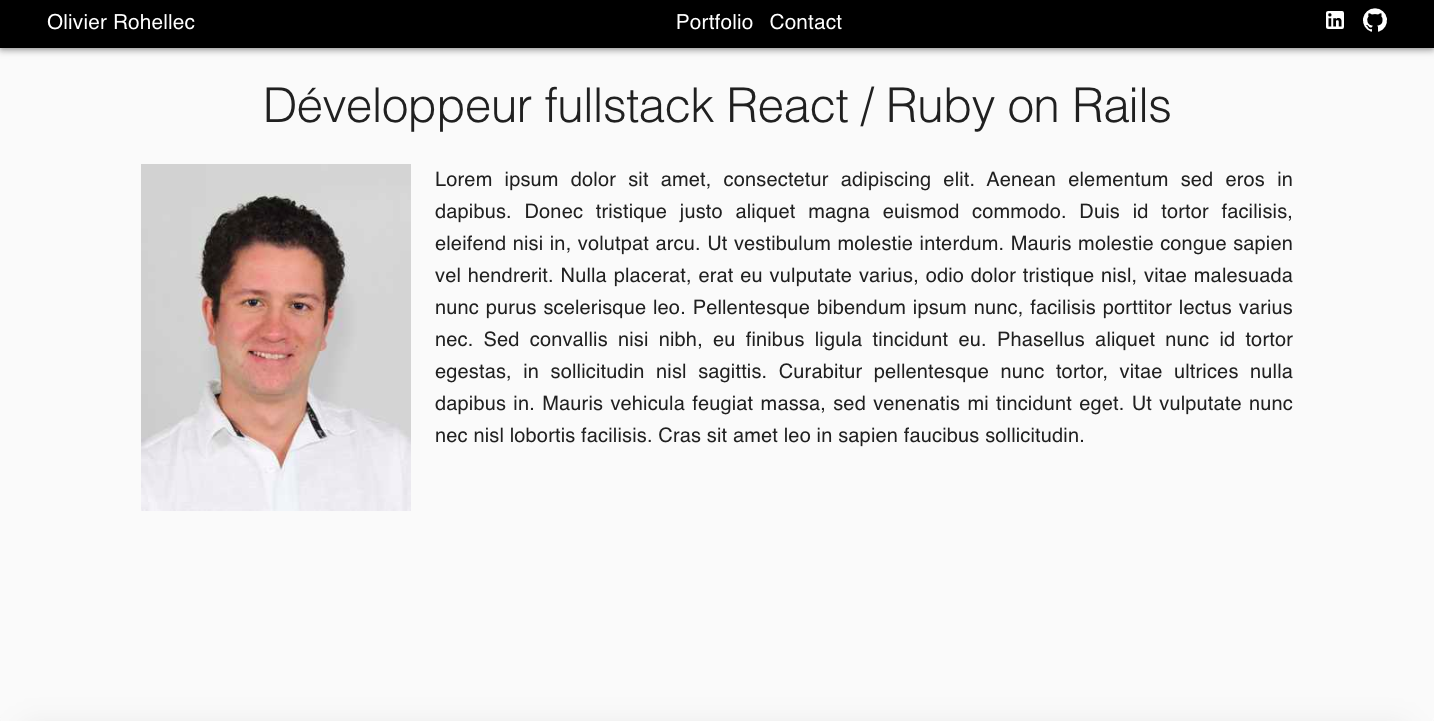
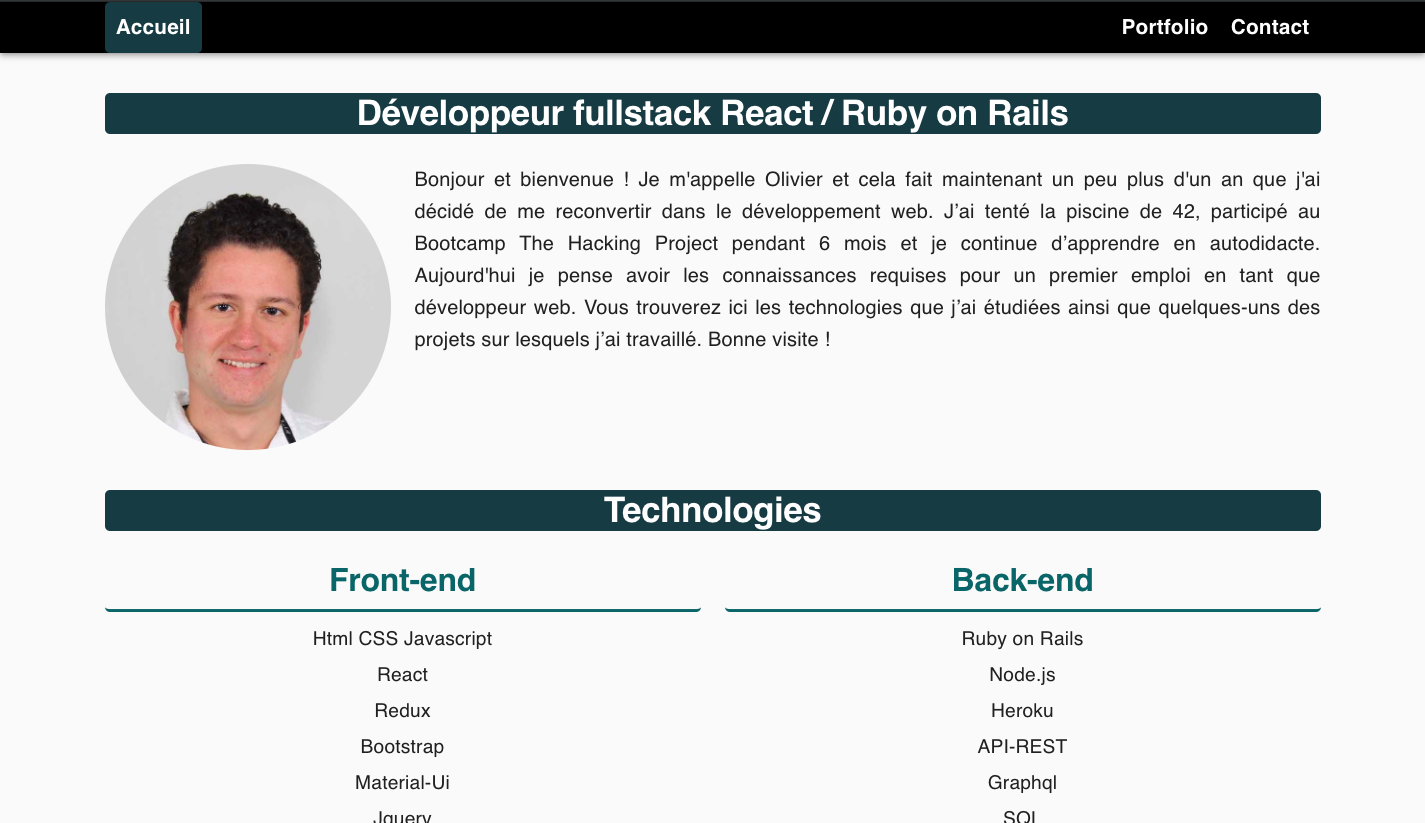
version 1.0 done

diff --git a/src/pages/contact.js b/src/pages/contact.js
@@ -76,7 +76,14 @@ const ContactPage = () => {
             </FormControl>
             </Grid>
             <Grid item justify="center">
-              <Button variant="contained" color="primary" type="submit" fullWidth={true}>Envoyer</Button>
+              <Button 
+                variant="contained" 
+                type="submit" 
+                fullWidth={true} 
+                style={{fontWeight: 'bold', color: 'white', backgroundColor: '#cc9937'}}
+              >
+                Envoyer
+              </Button>
             </Grid>
           </Grid>
         </form>

diff --git a/src/templates/projectTemplate.js b/src/templates/projectTemplate.js
@@ -34,7 +34,7 @@ export default function Template({
           <SecondaryTitle>Concept</SecondaryTitle>
         </Grid>
         <Grid item xs={12} style={{marginBottom: '30px'}}>
-          <Typography variant="body1" align="center">{frontmatter.concept}</Typography>
+          <Typography variant="body1" align="justify">{frontmatter.concept}</Typography>
         </Grid>
       </Grid>
       <Grid container spacing={3}>

diff --git a/src/markdown-pages/projects/sport-list.md b/src/markdown-pages/projects/sport-list.md
@@ -3,9 +3,9 @@ type: "project"
 imgName: "sport-list.png"
 path: "/portfolio/sport-list"
 title: "Sport List"
-description: "Projet final da la formation initiale The Hacking Project en collaboration avec Axelle, Charlotte, Cyril et Shayanne. Un visiteur peut effectuer une recherche par discipline et trouver un coach ou un club qui l'intéresse pour le contacter directement. Un utilisateur connecté peut en plus évaluer une activité et aussi créer sa propre activité afin de devenir professionnel s'il le souhaite. Un professionnel peut éditer ou supprimer son activité. Soyez indulgent si jamais vous allez regardez le code sur le repo github. Gardez à l'esprit que c'était notre premier projet à plusieurs au bout de deux mois de formations intensives. Il y a quelques petits bugs sur le site et les bonnes pratiques étaient ici le cadet de nos soucis."
-concept: "L'objectif de l'application web Sports-List est de mettre en relation les touristes et ou expatriés d'une destination avec des coach sportifs locaux :Faire du surf à Bali, du Rugby en Nouvelle-Zélande, Découvrir Cuba au travers de la Salsa. Pour les acteurs sportifs locaux, Sports-List est une vitrine. Pour les touristes (notamment les digital nomades), il s'agit d'une solution express pour contacter un acteur local et découvrir une culture par le biais d'une activité sportive."
+description: "Projet final da la formation initiale The Hacking Project en collaboration avec Axelle, Charlotte, Cyril et Shayanne. Un visiteur peut effectuer une recherche par discipline et trouver un coach ou un club qui l'intéresse pour le contacter directement. Un utilisateur connecté peut de plus évaluer une activité et également créer la sienne s'il souhaite devenir coach lui même. Un professionnel peut éditer ou supprimer son activité. Soyez indulgent si vous allez regarder le code sur le repo github. Gardez à l'esprit que c'était notre premier projet à plusieurs au bout de deux mois de formation intensive. Il y a quelques petits bugs sur le site et les bonnes pratiques étaient alors le cadet de nos soucis."
+concept: "L'objectif de l'application web Sports-List est de mettre en relation des touristes (notamment les digital nomades) avec des coachs sportifs locaux: faire du surf à Bali, du rugby en Nouvelle-Zélande, découvrir Cuba au travers de la salsa. Pour les acteurs sportifs locaux, Sports-List est une vitrine. Pour les touristes il s'agit d'une solution express pour contacter un acteur local et découvrir une culture par le biais d'une activité sportive."
 prodLink: "https://sports-list.herokuapp.com/"
-stack: "ruby on rails,bootstrap,rspec"
+stack: "Ruby on Rails,Bootstrap,Rspec"
 githubLink: "https://github.com/axelletrt/sports_list"
 ---

diff --git a/src/markdown-pages/projects/my-website.md b/src/markdown-pages/projects/my-website.md
@@ -3,8 +3,8 @@ type: "project"
 imgName: "my-website.png"
 path: "/portfolio/site-personnel"
 title: "Site Personnel"
-description: "Il s'agit de mon site personnelle sur lequel vous êtes en ce moment même. J'ai décidé d'utiliser Gatsby pour le réaliser pour plusieurs raisons. C'était un bon moyen pour moi de refaire un peu de react, d'apprendre Graphql, la librairie de composants Material-Ui, de découvrir le monde des générateurs de sites statiques ainsi que les headless CMS. De plus c'est rapide ce qui est agréable en plus d'améliorer le SEO et cerise sur le gâteau l'hébergement est gratuit! Ce site est relié à une interface admin éditoriale (Netlify CMS) ou je peux modifier une partie de mon contenu sans avoir à retourner dans le code de l'application. Un mini wordpress en somme!"
-concept: "Réaliser mon site portfolio sans base de donnée"
+description: "Il s'agit de mon site personnel sur lequel vous êtes en ce moment même. J'ai décidé d'utiliser Gatsby pour plusieurs raisons. C'était un bon moyen pour moi de refaire un peu de React, d'apprendre Graphql, la librairie de composants Material-Ui, de découvrir le monde des générateurs de sites statiques ainsi que les headless CMS. En plus d'être rapide, ce qui est agréable, cela permet d'améliorer le SEO et cerise sur le gâteau l'hébergement est gratuit! Ce site est relié à une interface administrateur éditorial (Netlify CMS) où je peux modifier une partie de mon contenu sans avoir à retourner dans le code de l'application; un mini wordpress en somme!"
+concept: "Réaliser mon site portfolio sans base de données"
 githubLink: "https://github.com/orohellec/my_website"
 prodLink: ""
 stack: "Gatsby,React,Graphql,Material-ui,Netlify,Netlify-cms"

diff --git a/src/markdown-pages/projects/fight-arena.md b/src/markdown-pages/projects/fight-arena.md
@@ -3,8 +3,8 @@ type: "project"
 imgName: "fight-arena.png"
 path: "/portfolio/fight-arena"
 title: "Fight Arena"
-description: "Pour pouvoir jouer il faut créer un compte. On peut ensuite créer un combattant, l'équiper avec quelques objets afin de le faire combattre contre un combattant aléatoire appartenant à un autre joueur. Le nombre de victoires et de défaites est enregistré ainsi que l'historique du combat. On peut également visualiser le palmarés des meilleurs combattants. NB: Le jeu n'est pas réellement fun en soi, c'était davantage pour me remettre sur Ruby on Rails après avoir fait un grand détour par javascript, react et node.js"
-concept: "Mini jeu de combat créé dans le contexte d'un test technique pour l'entreprise Captain Contrat"
+description: "Pour pouvoir jouer il faut créer un compte. On peut ensuite créer un combattant, l'équiper avec quelques objets afin de le faire combattre contre un combattant aléatoire appartenant à un autre joueur. Le nombre de victoires et de défaites est enregistré ainsi que l'historique du combat. On peut également visualiser le palmarés des meilleurs combattants. NB: Le jeu n'est pas réellement amusant en soi, c'était davantage pour me remettre sur Ruby on Rails après avoir fait un grand détour par Javascript, React et Node.js"
+concept: "Mini-jeu de combat créé dans le contexte d'un test technique pour l'entreprise Captain Contrat"
 githubLink: "https://github.com/orohellec/captain-contrat-test"
 prodLink: "https://fight-world-arena.herokuapp.com"
 stack: "HTML CSS,Ruby on Rails,Rspec,Heroku"

diff --git a/src/markdown-pages/projects/ecommerce.md b/src/markdown-pages/projects/ecommerce.md
@@ -4,10 +4,10 @@ imgName: "shop-ecommerce.png"
 path: "/portfolio/site-ecommerce"
 title: "Site Ecommerce"
 description: "Ce projet a été pour nous un bon moyen de revoir et d’approfondir les connaissances accumulées lors de la formation initiale. 
-En dépit des images de pokémons présentes, ce site contient les fonctionnalités essentielles d’un site Ecommerce. Possibilité de créer un compte, d’ajouter des produits à son panier, et de passer commande.
+En dépit des images de pokémons présentes, ce site contient les fonctionnalités essentielles d’un site e-commerce: possibilité de créer un compte, d’ajouter des produits à son panier et de passer commande.
 Il y a également une interface administrateur permettant l’ajout, l’édition, la suppression de produits ainsi que le suivi de commande."
-concept: "Site Ecommerce réalisé dans le cadre de la formation The Hacking Project Next avec deux camarades Lyonnais (Quentin et Charles) en télétravail"
+concept: "Site e-commerce réalisé dans le cadre de la formation The Hacking Project Next avec deux camarades Lyonnais (Quentin et Charles) en télétravail"
 githubLink: "https://github.com/orohellec/shop_ecommerce"
 prodLink: "https://ecommercethp-production.herokuapp.com/"
-stack: "ruby on rails,bootstrap,rspec,redis,sidekiq,docker,heroku"
+stack: "Ruby on Rails,Bootstrap,Rspec,Redis,Sidekiq,Docker,Heroku"
 ---

diff --git a/src/markdown-pages/index.md b/src/markdown-pages/index.md
@@ -4,12 +4,11 @@ title: "Olivier Rohellec"
 titleTemplate: "Accueil"
 path: "/"
 mainTitle: "Développeur fullstack React / Ruby on Rails"
-introduction: "Bonjour et bienvenue !  
-
+introduction: "Bonjour et bienvenue !
 Je m'appelle Olivier et cela fait maintenant un peu plus d'un an que j'ai décidé de me reconvertir dans le développement web.
 J’ai tenté la piscine de 42, participé au Bootcamp The Hacking Project pendant 6 mois et je continue d’apprendre en autodidacte.
 Aujourd'hui je pense avoir les connaissances requises pour un premier emploi en tant que développeur web.
-Vous trouverez ici les technologies que j’ai étudiés ainsi que quelques uns des projets sur lesquels j’ai travaillés.
+Vous trouverez ici les technologies que j’ai étudiées ainsi que quelques-uns des projets sur lesquels j’ai travaillé.
 Bonne visite !"
 frontTechnos: "Html CSS Javascript,React,Redux,Bootstrap,Material-Ui, Jquery"
 backTechnos: "Ruby on Rails, Node.js, Heroku, API-REST, Graphql, SQL"
